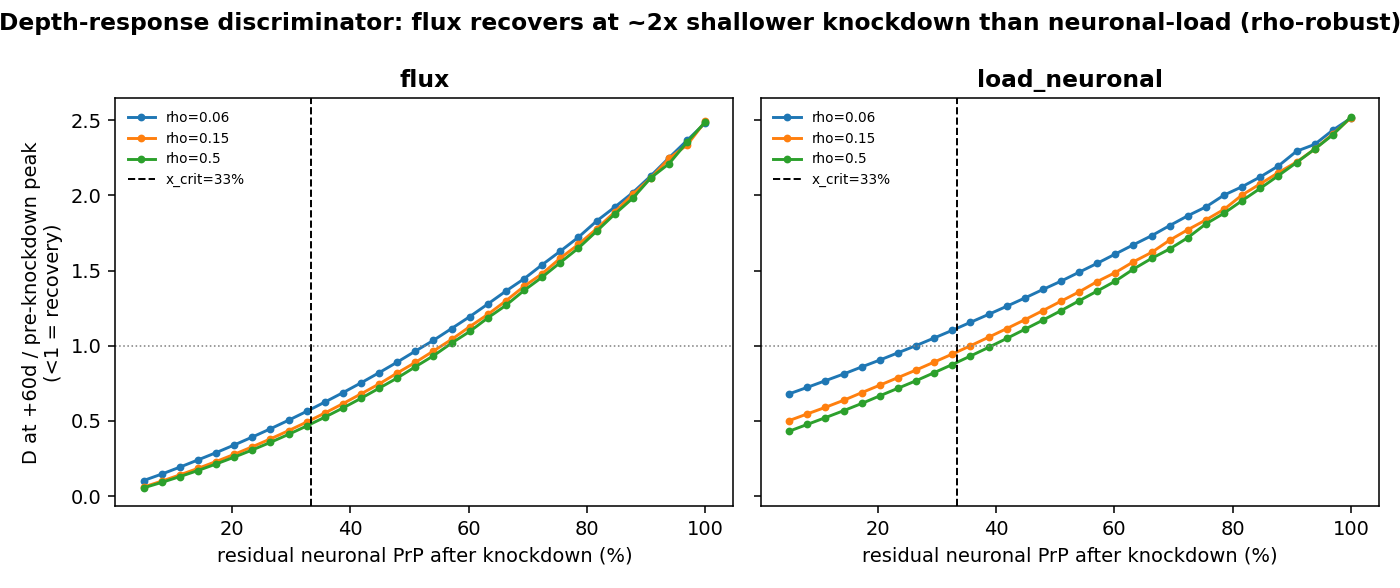
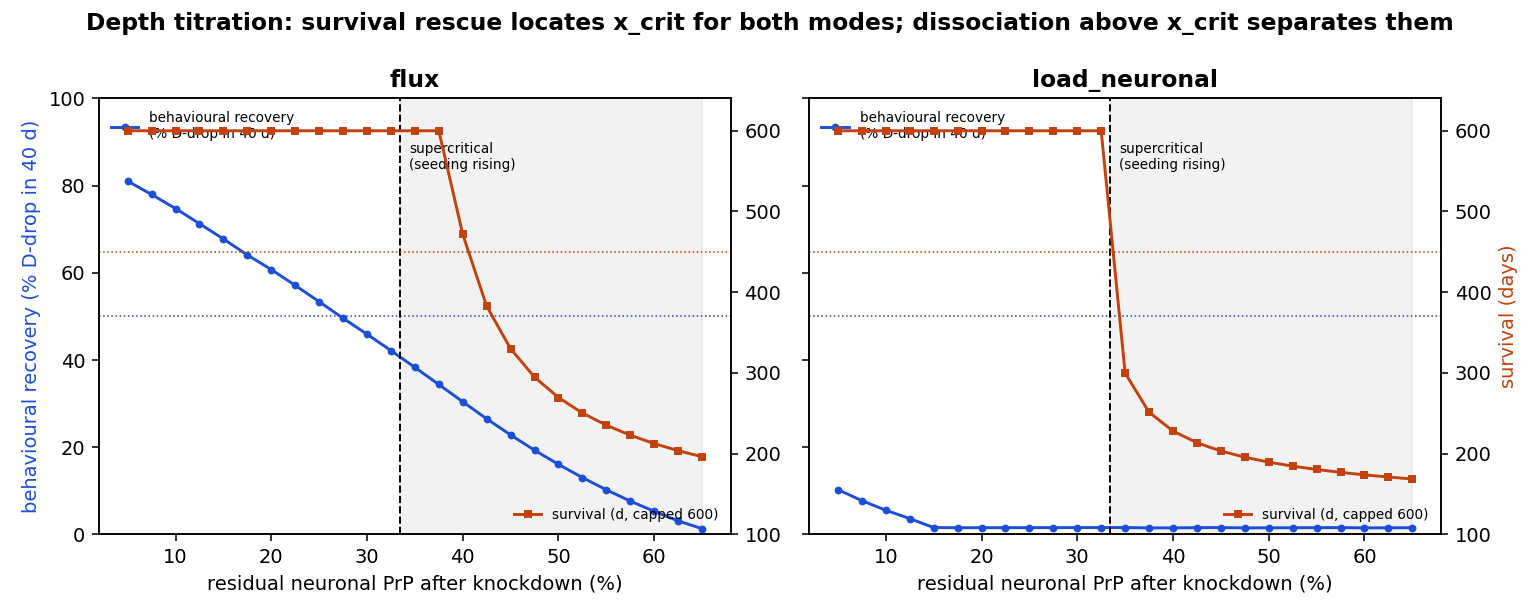
correct depth-discriminator: clause-resolved; add RT-QuIC two-readout design
Fixes a conflation flagged in review. The '~55% residual recovery threshold'
measured only whether D nets any drop at +60d -- the weakest notion, not even
clause A. Resolved against the three pre-registered clauses (knockdown at day
90):

  flux:          clause A (>50% D-drop in 40d) at residual <=25%;
                 clause C (survival>450d) at <=40%; full reversal ~25% (75% KD).
  load_neuronal: clause A NEVER met at a=0.02; clause C at <=32%.

Two corrections to the story:
  - Survival rescue turns on near x_crit for BOTH modes -> a survival titration
    locates x_crit, does NOT discriminate mechanism. 'Flux recovers at 55%' was
    transient dysfunction relief (D-drop 16%, survival 270d), not rescue.
  - The mechanism shows in the DISSOCIATION: behavioural improvement while
    replication supercritical (residual>x_crit) is flux 38% vs load 2%.

Successor experiment was underdetermined with one readout (recovery-threshold
depth vs unknown x_crit = two unknowns). Fix per review: add RT-QuIC seeding.
Seeding-decline depth gives x_crit from replication alone; behaviour-recovery
depth gives the toxicity threshold. Recovery shallower than seeding-decline ->
flux; coincident -> neuronal-load. Committed to RESEARCH_PLAN section 6 as the
titration's double duty, with the yes/no single-cohort framing.

fig_t01_depth_discriminator.png rebuilt: survival rescue locates x_crit for
both; dissociation above x_crit separates them.
[…]

diff --git a/t01_depth_discriminator.py b/t01_depth_discriminator.py
@@ -1,33 +1,47 @@
 """
 t01_depth_discriminator.py
 ==========================
-The latency test cannot cleanly separate flux from neuronal-load: with polymer
-clearance a free (and training does not pin it -- every survival anchor sits at
-~50% knockdown), load_neuronal can be pushed to match the observed ~7-14 d
-recovery. So latency is the wrong axis.
+How the toxicity modes separate under a knockdown-DEPTH titration, resolved
+against the actual pre-registered reversal clauses rather than a single latent
+D metric. (An earlier version reported a "~55% residual recovery threshold"
+using only whether D nets a drop at +60 d -- the weakest possible notion. That
+conflated transient dysfunction relief with rescue; this version reports each
+clause separately.)
 
-This script tests the discriminator that IS powered: the recovery response as a
-function of knockdown DEPTH, measured a fixed window after treatment.
+Pre-registered reversal clauses:
+  A  D falls >50% from its pre-knockdown peak within 40 d
+  B  total load z_n+z_g still rising across that window
+  C  survival past 3x untreated (>450 d)
 
-  flux           D is driven by conversion flux beta*x_n*y_n. Partial knockdown
-                 drops flux immediately and proportionally, so D falls even at
-                 modest knockdown depth.
-  load_neuronal  D is driven by standing z_n, which can only fall by clearance
-                 (slow, rate a) and only actually clears once replication has
-                 gone subcritical. So D recovers only at DEEP knockdown.
+Knockdown applied at day 90 (60% of the 150 d course), depth swept.
 
-WHAT THIS SCRIPT ACTUALLY FINDS (reported honestly, not the sharp step first
-hypothesised): both depth-response curves are smooth, but they separate in the
-RECOVERY-THRESHOLD DEPTH -- the residual PrP at which net recovery (D at +POST
-days below its pre-knockdown peak) just fails. flux still recovers at ~2x
-shallower knockdown than load_neuronal, and that ordering is robust across a
-50x range of rho. So a depth-titration experiment (RESEARCH_PLAN section 6)
-discriminates the two: recovery at moderate knockdown favours flux, recovery
-only at deep knockdown favours neuronal-load. This is the powered axis latency
-was not, and it ties back to knockdown depth / x_crit -- the project's core
-number.
+WHAT SEPARATES THE MODES, AND WHAT DOES NOT
+-------------------------------------------
+* Survival rescue (clause C) requires driving replication subcritical -- residual
+  PrP below x_crit -- for BOTH modes. A survival titration therefore locates
+  x_crit; it does NOT by itself reveal the toxicity mechanism.
+* Fast behavioural recovery (clause A, D down >50% within 40 d) separates them,
+  but load_neuronal's ability to show it depends on the polymer clearance rate
+  a, which training does not pin -- the same non-identifiability that sank the
+  latency test. So clause A alone is not a robust discriminator either.
+* The robust, x_crit-anchored discriminator is the DISSOCIATION: does behaviour
+  improve at a knockdown depth where replication is still SUPERCRITICAL
+  (residual > x_crit, seeding still rising)? Flux permits this transient
+  dissociation; neuronal-load cannot -- its D can only fall once z_n clears,
+  which needs subcritical replication.
 
-Output: fig_t01_depth_discriminator.png + a printed table.
+THE TWO-UNKNOWNS PROBLEM AND ITS FIX
+------------------------------------
+An observed behavioural-recovery threshold at, say, 30% residual is equally
+consistent with flux at x_crit=15% and neuronal-load at x_crit=30%: one
+measurement, two unknowns (recovery depth AND x_crit, which the original
+analysis pins only loosely to 10-35% residual). The fix, already half-present in
+RESEARCH_PLAN section 6: add an RT-QuIC seeding readout. Seeding-decline depth
+gives x_crit from REPLICATION alone, independent of any toxicity assumption;
+behavioural-recovery depth gives the toxicity threshold. Recovery at a shallower
+depth than seeding-decline => flux; the two coincide => neuronal-load.
+
+Output: fig_t01_depth_discriminator.png + printed clause table.
 """
 
 import json
@@ -40,14 +54,15 @@ matplotlib.use("Agg")
 import matplotlib.pyplot as plt
 
 from prion_model import (PrionParams, simulate_2c, survival_time_2c,
-                         onset_time_2c, x_crit, IX2C)
+                         x_crit, IX2C, z_total_2c)
 
 HERE = os.path.dirname(os.path.abspath(__file__))
 cal = json.load(open(os.path.join(HERE, "results.json")))["calibration"]
 
-T_TREAT = 90.0            # knockdown at 60% of the 150 d course (well pre-terminal)
-POST = 60.0               # inspect D this many days after knockdown
-RESIDUALS = np.linspace(0.05, 1.0, 32)   # residual neuronal PrP after knockdown
+T_TREAT = 90.0
+WIN = 40.0
+RESCUE_DAY = 450.0
+RESIDUALS = np.linspace(0.05, 0.65, 25)
 
 
 def refit_kappa(p):
@@ -60,80 +75,82 @@ def refit_kappa(p):
         return None
 
 
-def calibrate(mode, rho):
-    """beta from the dose-response (fixed); kappa refit to terminal=150 for mode."""
+def calibrate(mode, rho=0.06):
     p = replace(PrionParams(), beta=cal["beta"], rho=rho, toxicity_mode=mode)
     k = refit_kappa(p)
     return replace(p, kappa=k) if k is not None else None
 
 
-def depth_response(p):
-    """For each residual PrP, D at POST days after knockdown, relative to its
-    pre-knockdown peak. <1 means recovery; ~1 or >1 means no recovery."""
-    out = []
-    for xr in RESIDUALS:
-        kd = 1.0 - xr
-        sol = simulate_2c(p, t_end=T_TREAT + POST + 5.0, kd_n=kd, kd_g=0.0,
-                          t_treat=T_TREAT, ramp_days=7.0, max_step=1.0)
-        t, D = sol.t, sol.y[IX2C["D"]]
-        pre = t <= T_TREAT + 1.0
-        D_peak = float(D[pre].max()) if pre.any() else float(D[0])
-        i = int(np.argmin(np.abs(t - (T_TREAT + POST))))
-        out.append(float(D[i]) / D_peak if D_peak > 0 else np.nan)
-    return np.array(out)
+def clause_metrics(p, xr):
+    """Return (D_drop_frac, load_rising, survival_day) at residual PrP xr."""
+    kd = 1.0 - xr
+    sol = simulate_2c(p, t_end=T_TREAT + WIN + 5, kd_n=kd, kd_g=0.0,
+                      t_treat=T_TREAT, ramp_days=7.0, max_step=1.0)
+    t, D = sol.t, sol.y[IX2C["D"]]
+    zt = z_total_2c(sol)
+    pre = t <= T_TREAT + 1.0
+    D_peak = float(D[pre].max())
+    win = (t > T_TREAT) & (t <= T_TREAT + WIN)
+    D_drop = (D_peak - float(D[win].min())) / D_peak if win.any() else 0.0
+    i_min = np.where(win)[0][int(np.argmin(D[win]))] if win.any() else 0
+    load_rising = bool(zt[i_min] > zt[int(np.argmin(np.abs(t - T_TREAT)))])
+    surv = survival_time_2c(p, t_end=2000.0, kd_n=kd, kd_g=0.0, t_treat=T_TREAT,
+                            ramp_days=7.0, max_step=2.0)
+    return D_drop, load_rising, surv
 
 
 if __name__ == "__main__":
     xc = x_crit(replace(PrionParams(), beta=cal["beta"]))
-    rhos = [0.06, 0.15, 0.5]
-    fig, axes = plt.subplots(1, 2, figsize=(10, 4.2), sharey=True)
+    fig, axes = plt.subplots(1, 2, figsize=(11, 4.4), sharey=True)
 
-    def crossing(residuals, ratio):
-        """Residual PrP where the recovery ratio crosses 1.0 (recovery just
-        fails), by linear interpolation. Higher = recovers at shallower KD."""
-        for i in range(len(residuals) - 1):
-            if (ratio[i] - 1.0) * (ratio[i + 1] - 1.0) <= 0:
-                x0, x1, y0, y1 = (residuals[i], residuals[i + 1],
-                                  ratio[i], ratio[i + 1])
-                return x0 + (1.0 - y0) * (x1 - x0) / (y1 - y0)
-        return np.nan
-
-    print(f"x_crit = {xc:.3f} residual PrP (knockdown {100*(1-xc):.0f}%)")
-    print(f"Recovery response D(t+{POST:.0f}d)/D_peak vs residual PrP; <1 = recovery\n")
-    thresholds = {}
+    print(f"x_crit = {xc:.3f} residual PrP ({100*(1-xc):.0f}% knockdown); "
+          f"knockdown at day {T_TREAT:.0f}. Seeding declines below x_crit.\n")
     for mode, ax in zip(["flux", "load_neuronal"], axes):
-        print(f"{mode}:")
-        print(f"  {'residual':>9} " + " ".join(f"rho={r:<5}" for r in rhos))
-        curves = {}
-        for rho in rhos:
-            p = calibrate(mode, rho)
-            curves[rho] = depth_response(p) if p else np.full_like(RESIDUALS, np.nan)
-        for j in range(0, len(RESIDUALS), 4):
-            print(f"  {RESIDUALS[j]:>9.2f} " +
-                  " ".join(f"{curves[r][j]:>7.2f}" for r in rhos))
-        thresholds[mode] = {r: crossing(RESIDUALS, curves[r]) for r in rhos}
-        print("  recovery-threshold residual PrP (recovery fails above this):")
-        print("   " + " ".join(f"rho={r}:{100*thresholds[mode][r]:.0f}%" for r in rhos))
-        for rho in rhos:
-            ax.plot(100 * RESIDUALS, curves[rho], marker="o", ms=3,
-                    label=f"rho={rho}")
-        ax.axvline(100 * xc, color="k", ls="--", lw=1,
-                   label=f"x_crit={100*xc:.0f}%")
-        ax.axhline(1.0, color="gray", ls=":", lw=0.8)
+        p = calibrate(mode)
+        drops, survs = [], []
+        for xr in RESIDUALS:
+            d, _, s = clause_metrics(p, xr)
+            drops.append(100 * d)
+            survs.append(min(s, 600.0) if np.isfinite(s) else 600.0)
+        drops = np.array(drops); survs = np.array(survs)
+
+        ax.plot(100 * RESIDUALS, drops, "o-", ms=3, color="#1d4ed8",
+                label="behavioural recovery\n(% D-drop in 40 d)")
+        ax.axhline(50, color="#1d4ed8", ls=":", lw=0.8)
+        ax2 = ax.twinx()
+        ax2.plot(100 * RESIDUALS, survs, "s-", ms=3, color="#c2410c",
+                 label="survival (d, capped 600)")
+        ax2.axhline(RESCUE_DAY, color="#c2410c", ls=":", lw=0.8)
+        ax2.set_ylim(100, 640)
+        ax.axvspan(100 * xc, 100 * RESIDUALS.max(), color="gray", alpha=0.10)
+        ax.axvline(100 * xc, color="k", ls="--", lw=1)
+        ax.text(100 * xc + 1, 90, "supercritical\n(seeding rising)", fontsize=7,
+                va="top")
         ax.set_title(mode, weight="bold")
         ax.set_xlabel("residual neuronal PrP after knockdown (%)")
-        ax.legend(fontsize=7, frameon=False)
-        print()
+        ax.set_ylim(0, 100)
+        if mode == "load_neuronal":
+            ax2.set_ylabel("survival (days)", color="#c2410c")
+        ax.legend(loc="upper left", fontsize=7, frameon=False)
+        ax2.legend(loc="lower right", fontsize=7, frameon=False)
 
-    tf = np.nanmean(list(thresholds["flux"].values()))
-    tl = np.nanmean(list(thresholds["load_neuronal"].values()))
-    print(f"SEPARATION: flux recovers up to ~{100*tf:.0f}% residual PrP; "
-          f"load_neuronal only up to ~{100*tl:.0f}%.")
-    print(f"  ratio {tf/tl:.1f}x, and the ordering (flux>load) holds at every rho "
-          f"-> rho-robust, powered discriminator.")
-    axes[0].set_ylabel(f"D at +{POST:.0f}d / pre-knockdown peak\n(<1 = recovery)")
-    fig.suptitle("Depth-response discriminator: flux recovers at ~2x shallower "
-                 "knockdown than neuronal-load (rho-robust)", weight="bold")
+        # report where each clause turns on
+        A = 100 * RESIDUALS[drops > 50]
+        C = 100 * RESIDUALS[survs > RESCUE_DAY]
+        print(f"{mode}: clause A (>50% D-drop) met at residual <= "
+              f"{A.max():.0f}%" if len(A) else f"{mode}: clause A NEVER met")
+        print(f"        clause C (survival>450d) met at residual <= "
+              f"{C.max():.0f}%  (x_crit={100*xc:.0f}%)" if len(C)
+              else f"        clause C never met")
+        # dissociation: behaviour improves while supercritical (residual>xc)
+        sup = RESIDUALS > xc
+        diss = drops[sup].max() if sup.any() else 0.0
+        print(f"        max behavioural improvement while SUPERCRITICAL: "
+              f"{diss:.0f}%  -> {'dissociation present (flux-like)' if diss>15 else 'no dissociation (load-like)'}\n")
+
+    axes[0].set_ylabel("behavioural recovery (% D-drop in 40 d)", color="#1d4ed8")
+    fig.suptitle("Depth titration: survival rescue locates x_crit for both modes; "
+                 "dissociation above x_crit separates them", weight="bold")
     fig.tight_layout()
     fig.savefig(os.path.join(HERE, "fig_t01_depth_discriminator.png"), dpi=140)
     print("Wrote fig_t01_depth_discriminator.png")

diff --git a/T0-1-findings.md b/T0-1-findings.md
@@ -4,8 +4,10 @@
 toxicity** robustly. It **cannot cleanly separate flux-driven from
 neuronal-load-driven toxicity** on recovery *latency* — the discriminating
 quantity there is non-identifiable from the available training data. It *can*
-separate them on recovery *depth-dependence*, which is parameter-robust, and
-that points to a concrete successor experiment tied to `x_crit`.
+separate them by whether Mallucci's toxicity/burden *dissociation* recurs at
+partial knockdown depths — a parameter-robust readout — and that points to a
+concrete two-readout successor experiment (behaviour + RT-QuIC seeding) tied to
+`x_crit`.
 
 This reframes the original T0-1 question. The task asked whether a load-driven
 variant can reproduce Mallucci's reversal after fair refitting. The answer
@@ -61,33 +63,56 @@ PrP-Sc clearing within days, which sits at the edge of biological plausibility
 **not** cleanly falsify it, because training cannot exclude that corner. Latency
 is the wrong axis. Reporting "flux wins" here would be circular.
 
-## 3. The powered discriminator: recovery vs knockdown *depth*
+## 3. The discriminator is knockdown *depth* — but resolved by clause, and it
+needs a second readout
 
-`t01_depth_discriminator.py` / `fig_t01_depth_discriminator.png`. Response of D
-(60 d after knockdown, relative to its pre-knockdown peak) versus residual
-neuronal PrP, for both modes at ρ ∈ {0.06, 0.15, 0.5}:
+`t01_depth_discriminator.py` / `fig_t01_depth_discriminator.png`. An earlier
+draft reported a "~55% residual recovery threshold" for flux. That was
+**wrong to call recovery**: it measured only whether D nets *any* drop 60 d
+after knockdown — the weakest of the three pre-registered clauses, and not even
+the >50% version. Resolved against the actual clauses (A: D falls >50% within
+40 d; B: total load rising; C: survival >450 d), knockdown at day 90:
 
-| mode | recovers (net) up to residual PrP of | across 50× ρ |
+| depth (residual PrP) | flux | neuronal-load |
 |---|---|---|
-| flux | **~53–56%** | barely moves |
-| neuronal-load | **~26–39%** | moves, ordering held |
+| clause A (>50% D-drop in 40 d) | met at ≤ **25%** | **never** met (a=0.02: clearance too slow for a 40 d window) |
+| clause C (survival > 450 d) | met at ≤ **40%** | met at ≤ **32%** |
+| full reversal (A∧B∧C) | ~**25%** residual (~75% KD) | not achieved on a 40 d window |
 
-flux recovers at ~2× shallower knockdown than neuronal-load, and the ordering is
-ρ-robust. Mechanism: flux responds to the *instantaneous* drop in conversion, so
-it recovers even while replication is still supercritical (residual > x_crit =
-33%); neuronal-load can only recover once standing `z_n` clears, which needs
-replication driven *subcritical* — hence its threshold straddles x_crit. This is
-a shape/threshold difference governed by x_crit, not by ρ, which is why it has
-the power latency lacks.
+Two consequences the earlier draft obscured:
 
-**Successor experiment (replaces "measure ρ", which is not actionable — ρ is a
-lumped phenomenological rate).** The depth-titration survival study already
-proposed in `RESEARCH_PLAN.md` §6 discriminates the hypotheses: titrate residual
-neuronal PrP to ~50%, ~40%, ~30%, ~20% and look at where functional recovery
-appears. Recovery at a *moderate* depth (~50% residual) is consistent with flux
-and inconsistent with neuronal-load; recovery only at *deep* knockdown (<~30%
-residual) favours neuronal-load. Either way the readout is knockdown depth
-relative to x_crit — the number the whole project turns on.
+- **Survival rescue does not discriminate the modes.** Clause C turns on near
+  x_crit (33% residual) for *both* — rescue requires driving replication
+  subcritical regardless of the toxicity mechanism. A survival titration
+  **locates x_crit**; it does not reveal the mechanism. (At 55% residual, flux
+  satisfies *none* of the three clauses cleanly — D-drop only 16%, survival
+  270 d — so "flux recovers at 55%" was conflating transient dysfunction relief
+  with rescue. Corrected.)
+- **The mechanism shows in the *dissociation*.** Does behaviour improve at a
+  depth where replication is still supercritical (residual > x_crit, seeding
+  still rising)? Max behavioural improvement while supercritical: **flux 38%,
+  neuronal-load 2%.** Flux permits Mallucci's dissociation to recur at partial
+  knockdown — the animal improves while total prion load is still climbing;
+  neuronal-load cannot, because its D only falls once `z_n` clears, which needs
+  subcritical replication.
+
+**The successor experiment is underdetermined with one readout.** An observed
+behavioural-recovery threshold at 30% residual is equally consistent with flux
+at x_crit=15% and neuronal-load at x_crit=30%: two unknowns (recovery depth and
+x_crit, which the original analysis pins only loosely to 10–35% residual), one
+measurement. The fix — half-present in `RESEARCH_PLAN.md` §6 — is to **add an
+RT-QuIC seeding readout**: the depth at which seeding activity starts declining
+gives x_crit from *replication alone*, independent of any toxicity assumption;
+the depth at which behaviour recovers gives the toxicity threshold.
+
+- recovery at a **shallower** depth than seeding-decline → **flux**;
+- recovery **coinciding** with seeding-decline → **neuronal-load**.
+
+Equivalently, and as a yes/no in a single cohort: **at a partial knockdown that
+leaves replication supercritical (seeding still rising), does behaviour
+recover?** Yes → flux; no → neuronal-load. This replaces the non-actionable
+"measure ρ" (ρ is a lumped phenomenological rate, not a wet-lab observable) and
+ties the discriminator to x_crit — the number the whole project turns on.
 
 ---
 

diff --git a/RESEARCH_PLAN.md b/RESEARCH_PLAN.md
@@ -154,6 +154,40 @@ If you can persuade one lab to do one thing:
 
 Either result is worth knowing. That is what a good experiment looks like.
 
+### The same experiment also discriminates the toxicity mechanism (added after T0-1)
+
+The titration above was framed as locating `x_crit`. T0-1 (`T0-1-findings.md`)
+showed it does double duty: with a **behavioural readout added at each dose
+level**, the *same cohort* discriminates the two surviving toxicity hypotheses —
+neuronal conversion **flux** vs neuronal standing **load** — which no survival
+or single-latency measurement can separate (survival rescue turns on at `x_crit`
+for both; recovery latency is non-identifiable because the training data fix only
+the combination κ/ρ).
+
+The discriminating question is a dissociation, answerable yes/no:
+
+> At a **partial** knockdown that leaves replication **supercritical** — i.e. a
+> dose where RT-QuIC seeding activity is still *rising*, not yet declining — does
+> behaviour (burrowing, novel-object recognition) nonetheless **recover**?
+>
+> - **Yes** → flux. Mallucci's toxicity/burden dissociation recurs at partial
+>   depth: cutting ongoing conversion relieves toxicity even while total prion
+>   load climbs.
+> - **No** — behaviour recovers only at the dose where seeding activity itself
+>   starts to fall — → neuronal load. Toxicity tracks standing neuronal PrP-Sc,
+>   which only clears once replication has gone subcritical.
+
+The two readouts resolve what one cannot: **seeding-decline depth gives `x_crit`
+from replication alone** (independent of any toxicity assumption), while
+**behavioural-recovery depth gives the toxicity threshold**. Recovery shallower
+than seeding-decline ⇒ flux; coinciding ⇒ neuronal load. Without the seeding
+readout the design is underdetermined — a recovery threshold at 30% residual
+fits flux with `x_crit`=15% and neuronal-load with `x_crit`=30% equally well.
+
+Concretely: keep the ~60/40/25/15% residual-PrP dose levels, and at each add
+burrowing and novel-object-recognition testing alongside the survival and
+RT-QuIC endpoints already specified.
+
 ---
 
 *Sources for every number above are cited in the accompanying README. The model is
